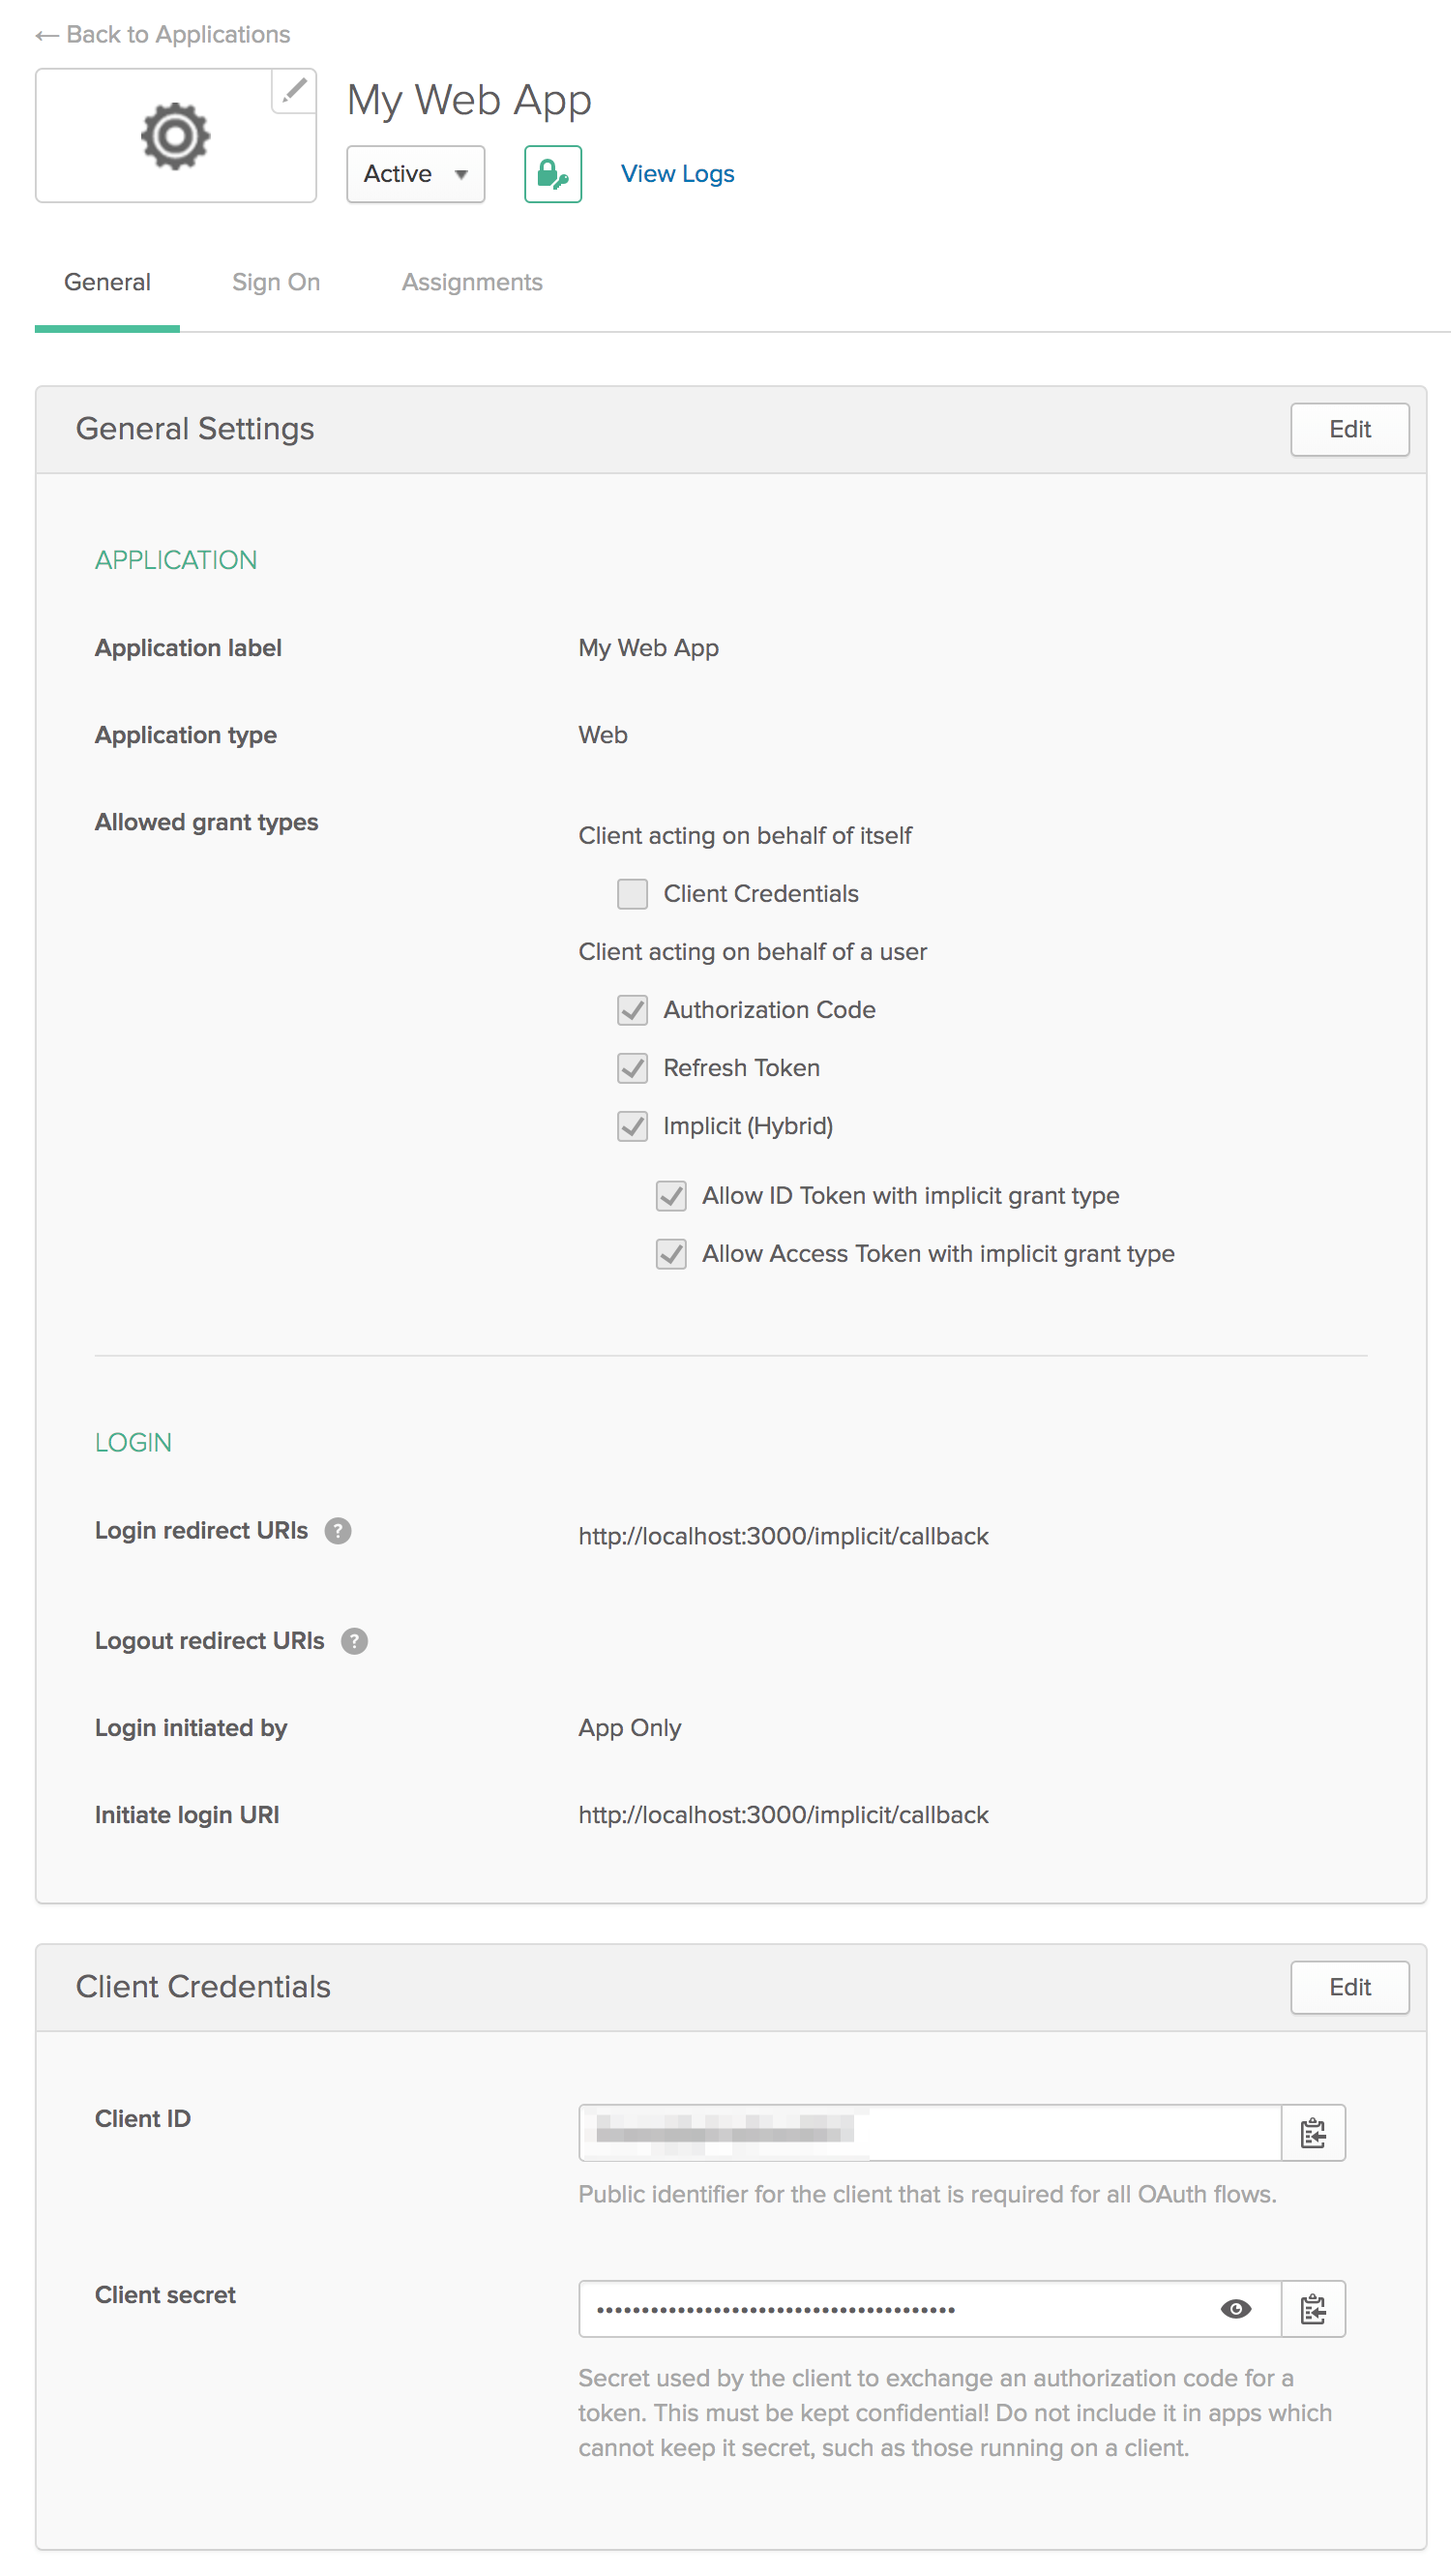
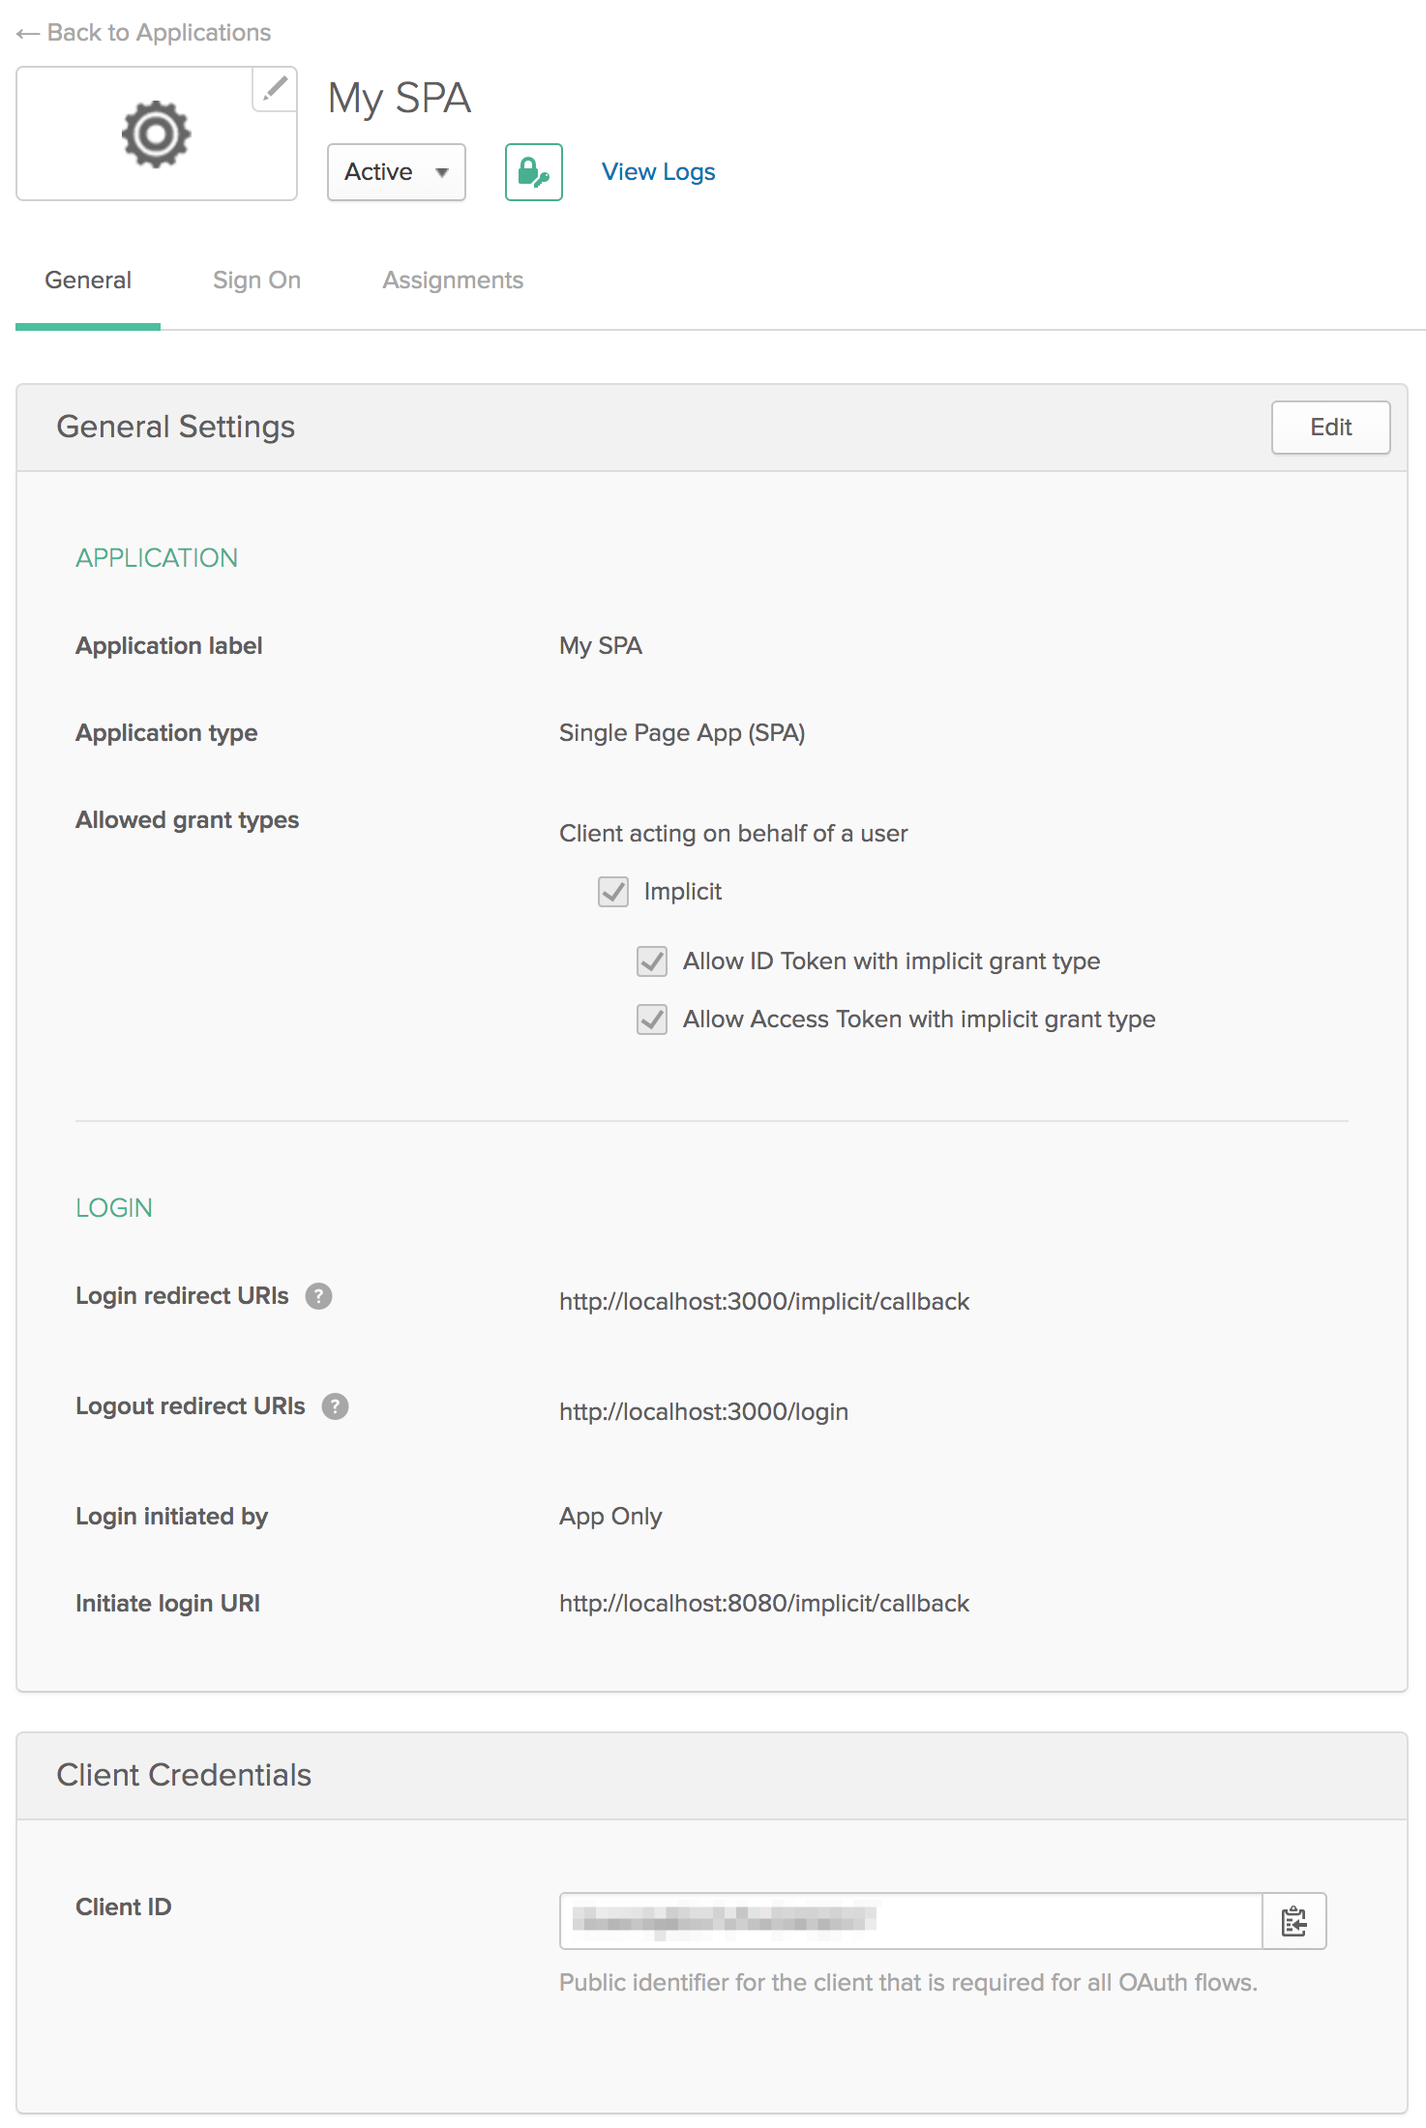
update readme and image

diff --git a/README.md b/README.md
@@ -10,7 +10,7 @@ endpoint to validate the token.
 
 If you do not have an Okta account, you can sign up for a Developer's account (https://developer.okta.com/signup/).
 
-You will need to create an Okta Web application. Set the `Login redirect URIs` and `Initiate login URI` to
+You will need to create an Okta SPA application. Set the `Login redirect URIs` and `Initiate login URI` to
 
     http://localhost:3000/implicit/callback
 
@@ -26,7 +26,6 @@ The Okta parameters need to be passed into the containers via environment variab
 save as `.env` to get the variables propagated into the containers.
 
     OKTA_CLIENT_ID=<Okta client id>
-    OKTA_CLIENT_SECRET=<Okta client secret>
     OKTA_ISSUER=<https://dev-######.oktapreview.com/oauth2/default>
     OKTA_REDIRECT_URI=http://localhost:3000/implicit/callback
     OKTA_SCOPE=openid profile email
